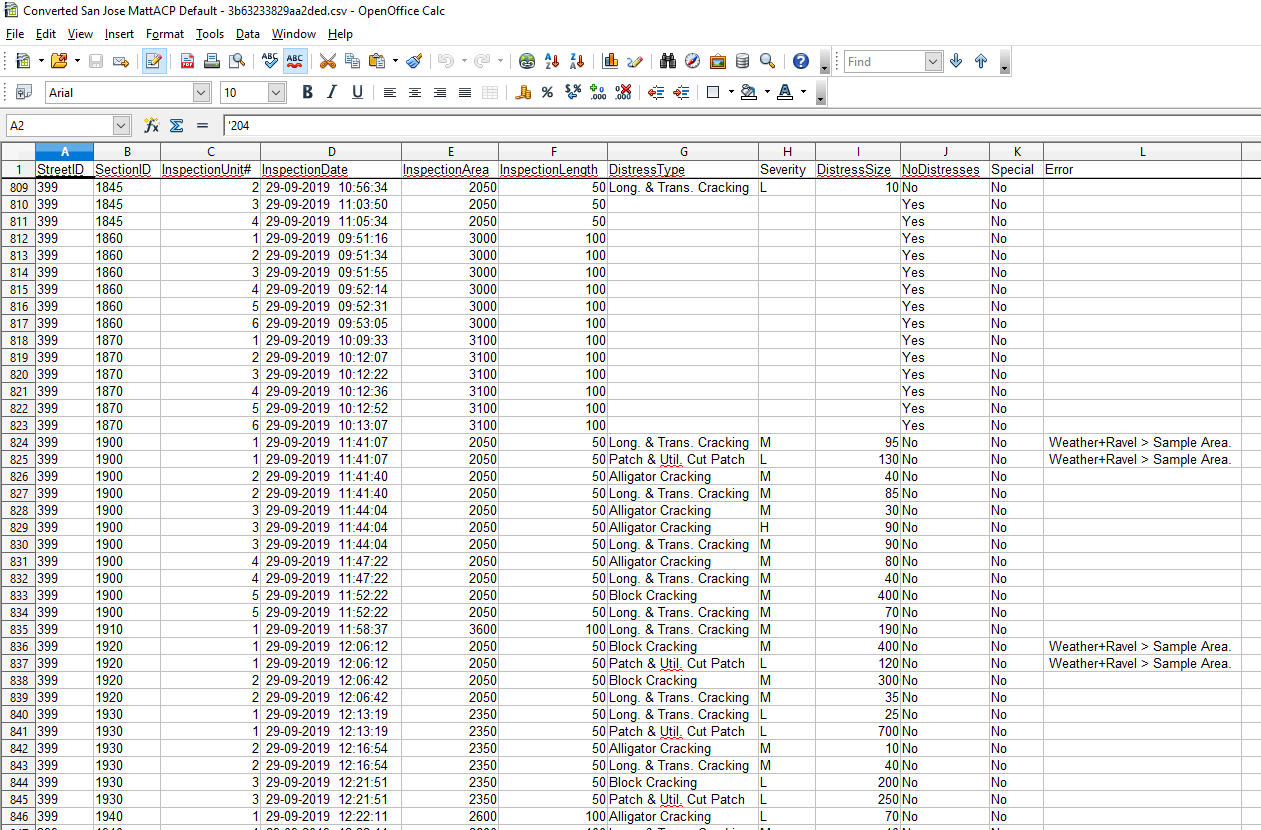
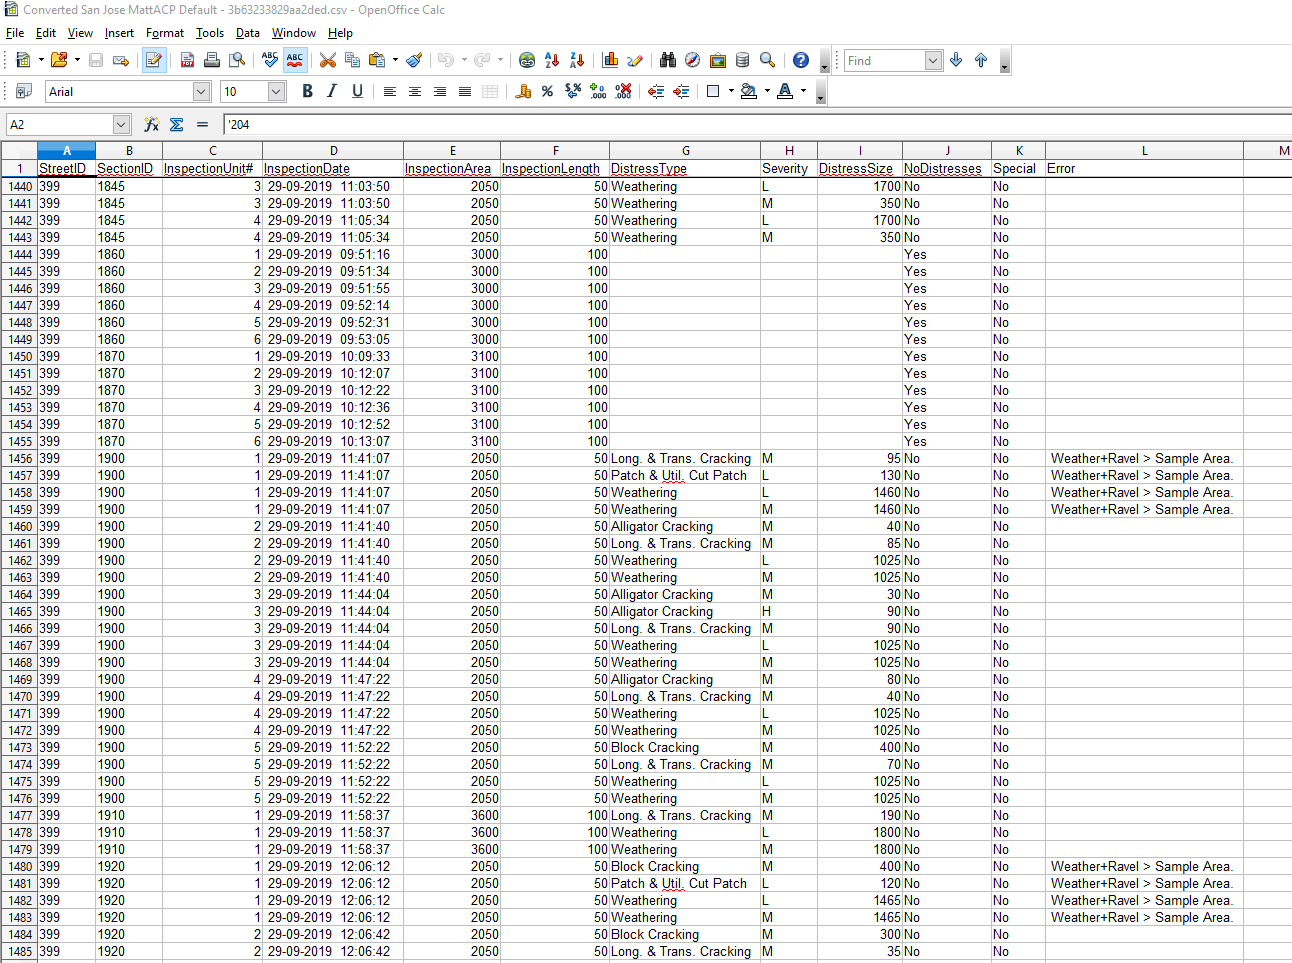
Screenshot Updated and Date format in Converted File

diff --git a/QESRawConverter/Classes/ACPStructure.cs b/QESRawConverter/Classes/ACPStructure.cs
@@ -317,6 +317,26 @@ namespace QESRawConverter.Classes
                 WillHaveDistress = true;
             }
             #endregion
+            #region Weathering
+            // Add to List for Low, Medium, or High Weathering if the Sample had values for those distresses
+            if (Infile.WeatL > 0)
+            {
+                temp.Add(new ACPOutput(Infile) { DistressType = "Weathering", Severity = 'L', DistressSize = Infile.WeatL, NoDistresses = "No", Error = ErrorMessage });
+                WillHaveDistress = true;
+            }
+            if (Infile.WeatM > 0)
+            {
+
+                temp.Add(new ACPOutput(Infile) { DistressType = "Weathering", Severity = 'M', DistressSize = Infile.WeatM, NoDistresses = "No", Error = ErrorMessage });
+                WillHaveDistress = true;
+            }
+            if (Infile.WeatH > 0)
+            {
+
+                temp.Add(new ACPOutput(Infile) { DistressType = "Weathering", Severity = 'H', DistressSize = Infile.WeatH, NoDistresses = "No", Error = ErrorMessage });
+                WillHaveDistress = true;
+            }
+            #endregion
             #region Raveling
 
             // Add to List for Low, Medium, or High Raveling if the Sample had values for those distresses
@@ -362,7 +382,7 @@ namespace QESRawConverter.Classes
             try
             {
                 // Convert Date in Original CSV to the format required in the new CSV
-                var dt = DateTime.ParseExact(Infile.date, "MM-dd-yyyy  HH:mm:ss", CultureInfo.InvariantCulture);
+                var dt = DateTime.ParseExact(Infile.date, "dd-MM-yyyy  HH:mm:ss", CultureInfo.InvariantCulture);
 
                 InspectionDate = dt.ToString("MM/dd/yyyy");
             }
